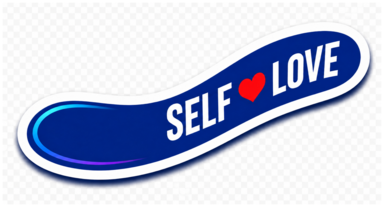
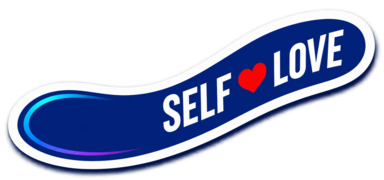
Fix transparent product card stickers

diff --git a/index.html b/index.html
@@ -116,7 +116,7 @@ function paintExtraTags(){
         : '<span class="tag '+cls+'">'+label+'</span>';
       match.querySelector('.media')?.insertAdjacentHTML('beforeend',tag);
       const painted=match.querySelector('.'+cls);
-      if(painted&&cls==='tag--top-rated'){
+      if(painted&&['tag--top-rated','tag--value-pick','tag--limited-stock'].includes(cls)){
         painted.style.setProperty('animation','none','important');
         painted.style.setProperty('opacity','1','important');
         if(!window.matchMedia('(prefers-reduced-motion: reduce)').matches){
@@ -128,7 +128,7 @@ function paintExtraTags(){
   };
   paintByName('Durex Play Buzzy Rabbit','tag--top-rated','Smooth Operator','assets/smooth-operator-sticker.png');
   paintByName('Durex Play Wild Wand','tag--value-pick','Self Love','assets/self-love-sticker.png');
-  paintByName('Durex Intense Vibe Ring','tag--limited-stock','Limited Stock');
+  paintByName('Durex Intense Vibe Ring','tag--limited-stock','Chill Vibes, Safe Rides','assets/chill-vibes-sticker.png');
 }
 paintExtraTags();
 const best=document.querySelector('#wanted');best.querySelector('.kicker').textContent='Loved by the community';best.querySelector('.title').innerHTML='BESTSELLERS.<i>Start here.</i>';

diff --git a/brand-refresh.css b/brand-refresh.css
@@ -2775,7 +2775,9 @@ body main .quick-links-head {
 .card .media > img.tag--top-rated.tag--art,
 .card:hover .media > img.tag--top-rated.tag--art,
 .card .media > img.tag--value-pick.tag--art,
-.card:hover .media > img.tag--value-pick.tag--art {
+.card:hover .media > img.tag--value-pick.tag--art,
+.card .media > img.tag--limited-stock.tag--art,
+.card:hover .media > img.tag--limited-stock.tag--art {
   top: 9px !important;
   right: 9px !important;
   bottom: auto !important;
@@ -2794,7 +2796,9 @@ body main .quick-links-head {
   .card .media > img.tag--top-rated.tag--art,
   .card:hover .media > img.tag--top-rated.tag--art,
   .card .media > img.tag--value-pick.tag--art,
-  .card:hover .media > img.tag--value-pick.tag--art {
+  .card:hover .media > img.tag--value-pick.tag--art,
+  .card .media > img.tag--limited-stock.tag--art,
+  .card:hover .media > img.tag--limited-stock.tag--art {
     top: 7px !important;
     right: 7px !important;
     width: 72px !important;
